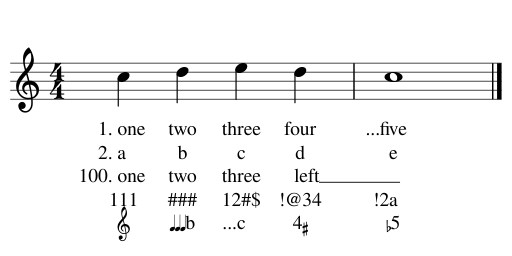
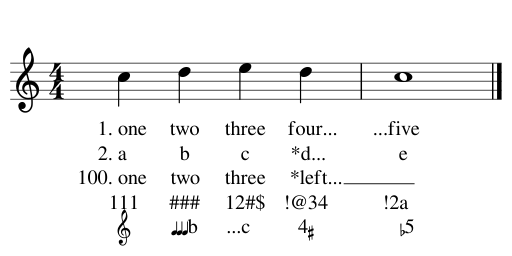
ignore trailing punctuation in lyrics alignment
Former-commit-id: ce572cd52ca7f1d0d5dff106a94d07d143ff8dba

diff --git a/libmscore/lyrics.cpp b/libmscore/lyrics.cpp
@@ -310,27 +310,36 @@ void Lyrics::layout1()
       // TODO: provide a way to disable this
       //
       bool hasNumber = false; // _verseNumber;
-      qreal adjust = 0.0;
+      qreal centerAdjust = 0.0;
+      qreal leftAdjust = 0.0;
       QString s = plainText(true);
       // find:
       // 1) string of numbers and non-word characters at start of syllable
       // 2) at least one other character (indicating start of actual lyric)
-      QRegularExpression leadingPattern("(^[\\d\\W]+)([^\\d\\W]+)");
-      QRegularExpressionMatch leadingMatch = leadingPattern.match(s);
-      if (leadingMatch.hasMatch()) {
-            // leading string
-            QString s1 = leadingMatch.captured(1);
+      // 3) string of non-word characters at end of syllable
+      //QRegularExpression leadingPattern("(^[\\d\\W]+)([^\\d\\W]+)");
+      QRegularExpression punctuationPattern("(^[\\d\\W]*)([^\\d\\W].*?)([\\d\\W]*$)");
+      QRegularExpressionMatch punctuationMatch = punctuationPattern.match(s);
+      if (punctuationMatch.hasMatch()) {
+            // leading and trailing punctuation
+            QString lp = punctuationMatch.captured(1);
+            QString tp = punctuationMatch.captured(3);
             // actual lyric
-            //QString s2 = leadingMatch.captured(2);
+            //QString actualLyric = punctuationMatch.captured(2);
             Text leading(*this);
-            leading.setPlainText(s1);
+            leading.setPlainText(lp);
             leading.layout1();
-            adjust = leading.width();
-            if (!s1.isEmpty() && s1[0].isDigit())
+            Text trailing(*this);
+            trailing.setPlainText(tp);
+            trailing.layout1();
+            leftAdjust = leading.width();
+            centerAdjust = leading.width() - trailing.width();
+            if (!lp.isEmpty() && lp[0].isDigit())
                   hasNumber = true;
             }
 
-      if (textStyle().align() & AlignmentFlags::HCENTER) {
+      Align ta = textStyle().align();
+      if (ta & AlignmentFlags::HCENTER) {
             //
             // center under notehead, not origin
             // however, lyrics that are melismas or have verse numbers will be forced to left alignment
@@ -343,13 +352,13 @@ void Lyrics::layout1()
                   maxWidth = cr->width();       // TODO: exclude ledger line for multivoice rest?
             qreal nominalWidth = symWidth(SymId::noteheadBlack);
             if (!isMelisma() && !hasNumber)     // center under notehead
-                  x +=  nominalWidth * .5 - cr->x() - adjust * 0.5;
+                  x +=  nominalWidth * .5 - cr->x() - centerAdjust * 0.5;
             else                                // force left alignment
-                  x += (width() + nominalWidth - maxWidth) * .5 - cr->x() - adjust;
+                  x += (width() + nominalWidth - maxWidth) * .5 - cr->x() - leftAdjust;
             }
-      else {
+      else if (!(ta & AlignmentFlags::RIGHT)) {
             // even for left aligned syllables, ignore leading verse numbers and/or punctuation
-            x -= adjust;
+            x -= leftAdjust;
             }
 
       rxpos() += x;
